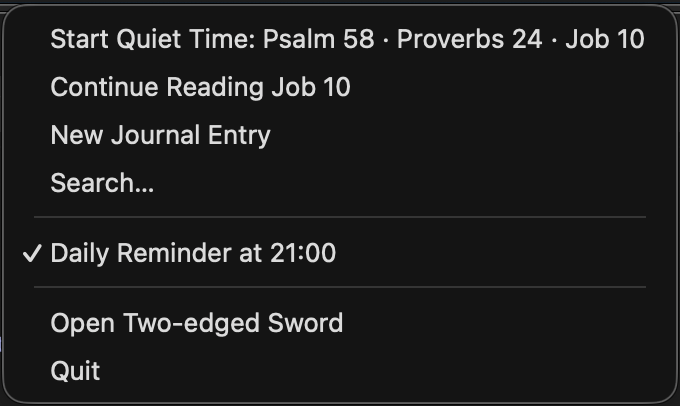
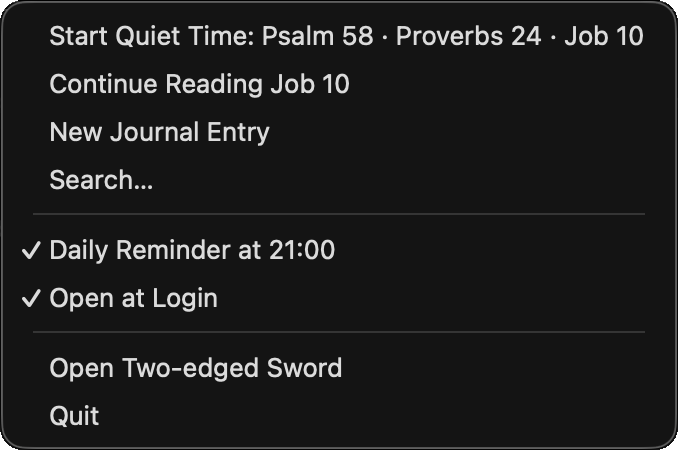
Out of the Dock while the window is closed; Open at Login starting in the menu bar
- Closing the window takes the app out of the Dock; showing it again (menu, relaunch) puts it
  back first and activates the app so the window comes to the front.
- Open at Login in the menu-bar menu, through SMAppService (the same setting as Login Items in
  System Settings). A login launch, recognised from the launch Apple event, stays in the menu
  bar with no window or Dock icon. The item is enabled for any bundled build: macOS reports
  NotFound for a bundle never registered, not only for the dev binary.
- Docs: Menu bar section, development notes on login items, Recent verses, Word Study's last
  word, scene scrollTo/crop in CLAUDE.md and AGENTS.md; new menu screenshot.

diff --git a/src-tauri/src/lib.rs b/src-tauri/src/lib.rs
@@ -4,6 +4,10 @@ mod content;
 mod index;
 mod journal;
 mod library;
+#[cfg(target_os = "macos")]
+mod login_item;
+#[cfg(target_os = "macos")]
+mod login_launch;
 mod search;
 mod store;
 mod study;
@@ -298,10 +302,41 @@ fn print_page(window: tauri::WebviewWindow) -> Result<(), String> {
     window.print().map_err(|e| e.to_string())
 }
 
+/// In the Dock while the window is open, only in the menu bar while it is closed. Runs on the main
+/// thread, as every caller does: the tray's menu handler, the window's events and Reopen.
+#[cfg(target_os = "macos")]
+fn set_in_dock(app: &AppHandle, shown: bool) {
+    let _ = app.set_activation_policy(if shown { tauri::ActivationPolicy::Regular } else { tauri::ActivationPolicy::Accessory });
+}
+
+#[cfg(not(target_os = "macos"))]
+fn set_in_dock(_app: &AppHandle, _shown: bool) {}
+
+/// Brings the app to the front: after coming back from Accessory, `set_focus()` alone can leave
+/// the window behind whatever the user was working in.
+#[cfg(target_os = "macos")]
+fn activate() {
+    use objc2::runtime::{AnyClass, AnyObject};
+    let Some(cls) = AnyClass::get(c"NSApplication") else { return };
+    unsafe {
+        let nsapp: *mut AnyObject = objc2::msg_send![cls, sharedApplication];
+        if !nsapp.is_null() {
+            let _: () = objc2::msg_send![nsapp, activateIgnoringOtherApps: true];
+        }
+    }
+}
+
+#[cfg(not(target_os = "macos"))]
+fn activate() {}
+
 fn show_main(app: &AppHandle) {
+    // Back in the Dock before the window is shown: done afterwards, the window can come up
+    // behind whatever had focus.
+    set_in_dock(app, true);
     if let Some(w) = app.get_webview_window("main") {
         let _ = w.show();
         let _ = w.unminimize();
+        activate();
         let _ = w.set_focus();
     }
 }
@@ -371,6 +406,16 @@ pub fn run() {
             tray::set_tray
         ])
         .setup(|app| {
+            // Did Login Items start this, rather than someone opening the app? Asked first: the
+            // answer is in the launch AppleEvent AppKit is dispatching now, and it has to be known
+            // before anything shows the window. A login launch stays in the menu bar.
+            #[cfg(target_os = "macos")]
+            let quiet = login_launch::probe() && scene().is_none();
+            #[cfg(not(target_os = "macos"))]
+            let quiet = false;
+            if quiet {
+                set_in_dock(app.handle(), false);
+            }
             // Until the frontend sends today's reading, the menu has its choices without the details.
             let menu = tray::menu(app.handle(), None)?;
             let tray_icon = tauri::image::Image::from_bytes(include_bytes!("../icons/tray@2x.png")).expect("tray icon is a valid png");
@@ -415,19 +460,23 @@ pub fn run() {
                             let key = objc2_foundation::NSString::from_str("drawsBackground");
                             let _: () = objc2::msg_send![webview, setValue: &*no, forKey: &*key];
                         }
-                        let _ = w_show.show();
-                        let _ = w_show.set_focus();
-                    });
-                    let w_fallback = w.clone();
-                    std::thread::spawn(move || {
-                        std::thread::sleep(std::time::Duration::from_millis(1200));
-                        if matches!(w_fallback.is_visible(), Ok(false)) {
-                            let _ = w_fallback.show();
+                        if !quiet {
+                            let _ = w_show.show();
+                            let _ = w_show.set_focus();
                         }
                     });
+                    if !quiet {
+                        let w_fallback = w.clone();
+                        std::thread::spawn(move || {
+                            std::thread::sleep(std::time::Duration::from_millis(1200));
+                            if matches!(w_fallback.is_visible(), Ok(false)) {
+                                let _ = w_fallback.show();
+                            }
+                        });
+                    }
                 }
                 #[cfg(not(target_os = "macos"))]
-                {
+                if !quiet {
                     let _ = w.show();
                 }
                 // Closing the window hides it; the app stays in the menu bar.
@@ -437,6 +486,8 @@ pub fn run() {
                         api.prevent_close();
                         let _ = w2.app_handle().save_window_state(STATE_FLAGS);
                         let _ = w2.hide();
+                        // Out of the Dock once the window has gone: the app is only in the menu bar now.
+                        set_in_dock(w2.app_handle(), false);
                     }
                 });
             }

diff --git a/src-tauri/src/login_item.rs b/src-tauri/src/login_item.rs
@@ -1,0 +1,87 @@
+//! "Open at Login", through SMAppService.
+//!
+//! SMAppService is the same mechanism System Settings > General > Login Items drives, so a
+//! toggle here and the switch there are two views of one setting: whatever was set in System
+//! Settings is what `status()` reports, and there is no second LaunchAgent to fall out of step
+//! with it. (A LaunchAgent plist, which the usual autostart crates write, WOULD be a second
+//! source of truth — the app would keep launching from a plist the Login Items list never
+//! mentions.)
+//!
+//! It needs a stable, signed bundle identifier, which this app has: com.wayned.two-edged-sword,
+//! signed with the identity in signing.local (see `make install-app`). Registration is per-user and survives
+//! a rebuild as long as the identifier does.
+//!
+//! Nothing here works for the unbundled `make dev` binary: SMAppService registers a BUNDLE, so
+//! the menu item is left disabled there (see `available`).
+
+#![cfg(target_os = "macos")]
+
+use objc2::runtime::{AnyClass, AnyObject};
+use objc2::msg_send;
+
+/// SMAppServiceStatus, as documented. Anything unrecognised is treated as NotFound.
+#[derive(PartialEq, Clone, Copy, Debug)]
+pub enum Status {
+    NotRegistered,
+    Enabled,
+    RequiresApproval,
+    NotFound,
+}
+
+impl Status {
+    /// Whether the menu item should show a tick. RequiresApproval means macOS has the
+    /// registration but the user has switched it off in System Settings, so it is NOT on.
+    pub fn is_on(self) -> bool {
+        self == Status::Enabled
+    }
+}
+
+fn service() -> Option<*mut AnyObject> {
+    // The class is missing rather than the call failing if ServiceManagement did not link.
+    let cls = AnyClass::get(c"SMAppService")?;
+    let svc: *mut AnyObject = unsafe { msg_send![cls, mainAppService] };
+    (!svc.is_null()).then_some(svc)
+}
+
+/// Whether this is a bundled app, which is what SMAppService registers. The menu item is enabled
+/// on this rather than on `status()`: macOS reports NotFound for an app bundle that has never been
+/// registered, as well as for the unbundled `make dev` binary.
+pub fn available() -> bool {
+    service().is_some() && std::env::current_exe().is_ok_and(|p| p.to_string_lossy().contains(".app/Contents/MacOS/"))
+}
+
+pub fn status() -> Status {
+    let Some(svc) = service() else { return Status::NotFound };
+    let raw: isize = unsafe { msg_send![svc, status] };
+    match raw {
+        0 => Status::NotRegistered,
+        1 => Status::Enabled,
+        2 => Status::RequiresApproval,
+        _ => Status::NotFound,
+    }
+}
+
+/// Turn it on or off. Returns the status afterwards, which is what the menu should show: asking
+/// again is the only honest answer, because macOS can answer RequiresApproval to a register.
+pub fn set(on: bool) -> Status {
+    if let Some(svc) = service() {
+        let mut err: *mut AnyObject = std::ptr::null_mut();
+        let _ok: bool = unsafe {
+            if on {
+                msg_send![svc, registerAndReturnError: &mut err]
+            } else {
+                msg_send![svc, unregisterAndReturnError: &mut err]
+            }
+        };
+        // The error is deliberately ignored: every failure mode here (already in that state,
+        // unsigned binary, approval needed) shows up in the status we read back anyway.
+    }
+    status()
+}
+
+/// System Settings > General > Login Items, for when macOS says the user has to approve.
+pub fn open_settings() {
+    let _ = std::process::Command::new("/usr/bin/open")
+        .arg("x-apple.systempreferences:com.apple.LoginItems-Settings.extension")
+        .status();
+}

diff --git a/src-tauri/src/login_launch.rs b/src-tauri/src/login_launch.rs
@@ -1,0 +1,49 @@
+//! Was this process started by the Login Items list, or by someone opening the app?
+//!
+//! macOS says so in the launch AppleEvent: the `kAEOpenApplication` ('oapp') event that starts
+//! every app carries `keyAEPropData` = `keyAELaunchedAsLogInItem` ('lgit') when the launch came
+//! from Login Items. Nothing else distinguishes the two — both are launched by launchd, with the
+//! same arguments and the same environment — and `SMAppService.mainApp`, which is what this app
+//! registers (see login_item.rs), cannot pass arguments of its own.
+//!
+//! `currentAppleEvent` is only the launch event while AppKit is dispatching it, so this must be
+//! asked EARLY. Tauri's `setup` hook is inside that window - verified 2026-09-13 in backup-manager, the
+//! same pattern on the same Tauri, by launching the installed bundle through `NSWorkspaceOpenConfiguration.appleEvent` carrying the same flag, and
+//! reading true at "setup start" against false for a plain `open -a`. That it is readable at the
+//! top of `setup` is what makes this usable at all: the decision lands before anything shows a
+//! window, so a login launch never puts one on screen to take away again.
+
+#![cfg(target_os = "macos")]
+
+use objc2::msg_send;
+use objc2::runtime::{AnyClass, AnyObject};
+/// Four-char codes, as the Apple Event Manager spells them.
+const K_AE_OPEN_APPLICATION: u32 = u32::from_be_bytes(*b"oapp");
+const KEY_AE_PROP_DATA: u32 = u32::from_be_bytes(*b"prdt");
+const KEY_AE_LAUNCHED_AS_LOGIN_ITEM: u32 = u32::from_be_bytes(*b"lgit");
+
+/// True when Login Items started this process. Must be called while AppKit is still dispatching
+/// the launch event - Tauri's `setup` hook is inside that window, and verified to be (see the
+/// module comment). Anything missing or unexpected reads as false, so the app opens its window
+/// as it always did rather than starting invisibly for a reason nobody can see.
+pub fn probe() -> bool {
+    let Some(cls) = AnyClass::get(c"NSAppleEventManager") else { return false };
+    let mgr: *mut AnyObject = unsafe { msg_send![cls, sharedAppleEventManager] };
+    if mgr.is_null() {
+        return false;
+    }
+    let ev: *mut AnyObject = unsafe { msg_send![mgr, currentAppleEvent] };
+    if ev.is_null() {
+        return false;
+    }
+    let id: u32 = unsafe { msg_send![ev, eventID] };
+    if id != K_AE_OPEN_APPLICATION {
+        return false;
+    }
+    let prop: *mut AnyObject = unsafe { msg_send![ev, paramDescriptorForKeyword: KEY_AE_PROP_DATA] };
+    if prop.is_null() {
+        return false;
+    }
+    let code: u32 = unsafe { msg_send![prop, enumCodeValue] };
+    code == KEY_AE_LAUNCHED_AS_LOGIN_ITEM
+}

diff --git a/src-tauri/src/tray.rs b/src-tauri/src/tray.rs
@@ -32,6 +32,10 @@ pub struct Tray(Mutex<Option<TrayState>>);
 /// A choice from the menu that the frontend carries out ("open" and "quit" are handled in lib.rs).
 /// It brings the window up first, except for the reminder, which only flips a setting.
 pub fn on_action(app: &AppHandle, id: &str) {
+    if id == "login" {
+        toggle_login(app);
+        return;
+    }
     if !["quiet", "continue", "journal", "search", "reminder"].contains(&id) {
         return;
     }
@@ -58,10 +62,39 @@ pub fn menu(app: &AppHandle, s: Option<&TrayState>) -> tauri::Result<Menu<Wry>> 
     let journal = MenuItem::with_id(app, "journal", "New Journal Entry", true, None::<&str>)?;
     let search = MenuItem::with_id(app, "search", "Search…", true, None::<&str>)?;
     let reminder = CheckMenuItem::with_id(app, "reminder", reminder_label, s.is_some(), s.is_some_and(|s| s.reminder), None::<&str>)?;
+    let login = login_menu_item(app)?;
     let open = MenuItem::with_id(app, "open", "Open Two-edged Sword", true, None::<&str>)?;
     let quit = MenuItem::with_id(app, "quit", "Quit", true, None::<&str>)?;
     let sep = || PredefinedMenuItem::separator(app);
-    Menu::with_items(app, &[&quiet, &cont, &journal, &search, &sep()?, &reminder, &sep()?, &open, &quit])
+    Menu::with_items(app, &[&quiet, &cont, &journal, &search, &sep()?, &reminder, &login, &sep()?, &open, &quit])
+}
+
+/// "Open at Login", ticked from what macOS reports. Disabled where there is nothing to register
+/// (the unbundled `make dev` binary).
+#[cfg(target_os = "macos")]
+fn login_menu_item(app: &AppHandle) -> tauri::Result<CheckMenuItem<Wry>> {
+    CheckMenuItem::with_id(app, "login", "Open at Login", crate::login_item::available(), crate::login_item::status().is_on(), None::<&str>)
+}
+
+#[cfg(not(target_os = "macos"))]
+fn login_menu_item(app: &AppHandle) -> tauri::Result<CheckMenuItem<Wry>> {
+    CheckMenuItem::with_id(app, "login", "Open at Login", false, false, None::<&str>)
+}
+
+/// Flips Open at Login and rebuilds the menu from the status macOS reports afterwards. If macOS
+/// wants the user to approve it, System Settings opens at Login Items.
+fn toggle_login(app: &AppHandle) {
+    #[cfg(target_os = "macos")]
+    {
+        use crate::login_item::{self, Status};
+        if login_item::set(!login_item::status().is_on()) == Status::RequiresApproval {
+            login_item::open_settings();
+        }
+    }
+    let s = app.state::<Tray>().0.lock().unwrap_or_else(|p| p.into_inner()).clone();
+    if let (Ok(m), Some(t)) = (menu(app, s.as_ref()), app.tray_by_id("main")) {
+        let _ = t.set_menu(Some(m));
+    }
 }
 
 #[tauri::command]

diff --git a/src-tauri/build.rs b/src-tauri/build.rs
@@ -1,3 +1,8 @@
 fn main() {
+    // SMAppService (src/login_item.rs) lives in ServiceManagement; without this the class is
+    // missing at run time and Open at Login stays disabled.
+    if std::env::var("CARGO_CFG_TARGET_OS").as_deref() == Ok("macos") {
+        println!("cargo:rustc-link-lib=framework=ServiceManagement");
+    }
     tauri_build::build()
 }

diff --git a/docs/features.md b/docs/features.md
@@ -12,7 +12,7 @@ screen you go to, passage, book chapter, word studied and search is a step you c
 From Word Study's list of words for "love", choosing ἀγάπη and pressing back returns to the list.
 
 The sidebar lists your bookmarks (verses and book paragraphs) and the chapters you read lately,
-of the Bible and of books and devotionals alike, eight of each with **Show all** for the rest.
+of the Bible (with the verse you opened it at, if any) and of books and devotionals alike, eight of each with **Show all** for the rest.
 Hover an entry for a preview; its × removes it, with **Undo** in the message that follows, and
 **Clear** beside the Recent heading empties that list (after asking). Hover any control for a
 short description.
@@ -110,7 +110,7 @@ well under a second.
 A Strong's entry, how often and where it is used (by book), every verse in context, related words
 and the articles about it in your library. Type an English word ("love") to see the Greek and
 Hebrew words the KJV+ translates with it, or a transliteration ("agape"). The speaker beside the
-word pronounces it.
+word pronounces it. Word Study opens on the last word you studied, including after a restart.
 
 ## Journal
 
@@ -147,7 +147,8 @@ notifications the first time.
 
 ## Menu bar
 
-Closing the window leaves the app in the menu bar. Its menu has:
+Closing the window leaves the app in the menu bar and takes it out of the Dock until the window
+is opened again. Its menu has:
 
 <img alt="The menu-bar menu" src="images/menu-bar.png" width="340">
 
@@ -156,6 +157,9 @@ Closing the window leaves the app in the menu bar. Its menu has:
 - **Continue Reading**, with the passage or book chapter you were last on.
 - **New Journal Entry** and **Search…**
 - **Daily Reminder at** the time set, ticked when it's on; choosing it turns the reminder on or off.
+- **Open at Login**: starts the app when you log in, in the menu bar with its window closed, so
+  the reminder comes without your opening it. It's the same setting as the app's switch in System
+  Settings → General → Login Items.
 - **Open Two-edged Sword** and **Quit**.
 
 ## Library

diff --git a/docs/development.md b/docs/development.md
@@ -38,6 +38,12 @@ Access) and it stops: that grant is tied to the signing certificate, so sign bui
 self-signed one. Copy `signing.local.example` to `signing.local` (untracked) and name the
 certificate there.
 
+**Open at Login** registers the installed bundle with SMAppService (the same list as System
+Settings › General › Login Items), so it only works in the app from `make install-app`: under
+`make dev` the menu item is disabled. The registration is per user and survives rebuilds as long
+as the bundle identifier stays `com.wayned.two-edged-sword`. A login launch is recognised from the
+launch Apple event, so the app starts in the menu bar with no window or Dock icon.
+
 ## Build times
 
 `src-tauri/Cargo.toml` keeps the lib `rlib`-only, uses thin LTO with parallel codegen units for
@@ -76,6 +82,7 @@ commentary or question) and capture what it shows. `CLAUDE.md` and `AGENTS.md` s
 | `src-tauri/src/library.rs`, `content.rs` | Finding modules and reading text out of them |
 | `src-tauri/src/search.rs`, `index.rs` | Search and its index |
 | `src/tray.tsx`, `src-tauri/src/tray.rs` | The menu-bar menu and the daily reminder, which is timed on the Rust side so it fires with the window hidden |
+| `src-tauri/src/login_item.rs`, `login_launch.rs` | Open at Login, and telling a login launch from the user opening the app |
 | `src-tauri/src/tts.rs` | Speech through AVSpeechSynthesizer (WebKit's speech API hides downloaded voices) |
 | `src-tauri/src/assistant/` | Running Claude Code or Codex for Ask |
 | `src-tauri/src/study.rs`, `books.rs` | Writing library material out as files for Ask to search |

diff --git a/AGENTS.md b/AGENTS.md
@@ -21,5 +21,5 @@ To see a screen, check a UI change, or reproduce a bug, use screenshot mode rath
       s.shoot({"name": "debug", "word": "G26", "pending": {"article": {"module": "isbe", "topic": "Love"}}}, "dark", s.build(tmp))
   if srv: srv.terminate()
   ```
-- A scene (the `Scene` type in `src/scene.ts`) can set `settings`, `screen`, `loc`, `word` (Word Study), `search`, a fixture `chat`, a still `player`, `scrollTop`, `pending` (an article, commentary or question asked for after the page settles, as a click elsewhere would), `doc` (open a book at a chapter), `selectPara` (click a paragraph) and `click` (click any CSS selector afterwards, e.g. a toolbar button). Add a field there when a bug needs one. Hover can't be simulated.
+- A scene (the `Scene` type in `src/scene.ts`) can set `settings`, `screen`, `loc`, `word` (Word Study), `search`, a fixture `chat`, a still `player`, `scrollTop`, `scrollTo` (a CSS selector scrolled into view), `pending` (an article, commentary or question asked for after the page settles, as a click elsewhere would), `doc` (open a book at a chapter), `selectPara` (click a paragraph) and `click` (click any CSS selector afterwards, e.g. a toolbar button). Add a field there when a bug needs one. In `tools/screenshots/scenes.json`, `crop: [x, y, width, height]` trims the saved 1400px-wide image to one part of the screen. Hover can't be simulated.
 - It needs the Vite dev server (the script starts it) and Screen Recording permission for the terminal. Scenes read the user's real library and data, without changing them. Show only public-domain Bibles in anything committed.

diff --git a/CLAUDE.md b/CLAUDE.md
@@ -21,5 +21,5 @@ To see a screen, check a UI change, or reproduce a bug, use screenshot mode rath
       s.shoot({"name": "debug", "word": "G26", "pending": {"article": {"module": "isbe", "topic": "Love"}}}, "dark", s.build(tmp))
   if srv: srv.terminate()
   ```
-- A scene (the `Scene` type in `src/scene.ts`) can set `settings`, `screen`, `loc`, `word` (Word Study), `search`, a fixture `chat`, a still `player`, `scrollTop`, `pending` (an article, commentary or question asked for after the page settles, as a click elsewhere would), `doc` (open a book at a chapter), `selectPara` (click a paragraph) and `click` (click any CSS selector afterwards, e.g. a toolbar button). Add a field there when a bug needs one. Hover can't be simulated.
+- A scene (the `Scene` type in `src/scene.ts`) can set `settings`, `screen`, `loc`, `word` (Word Study), `search`, a fixture `chat`, a still `player`, `scrollTop`, `scrollTo` (a CSS selector scrolled into view), `pending` (an article, commentary or question asked for after the page settles, as a click elsewhere would), `doc` (open a book at a chapter), `selectPara` (click a paragraph) and `click` (click any CSS selector afterwards, e.g. a toolbar button). Add a field there when a bug needs one. In `tools/screenshots/scenes.json`, `crop: [x, y, width, height]` trims the saved 1400px-wide image to one part of the screen. Hover can't be simulated.
 - It needs the Vite dev server (the script starts it) and Screen Recording permission for the terminal. Scenes read the user's real library and data, without changing them. Show only public-domain Bibles in anything committed.
